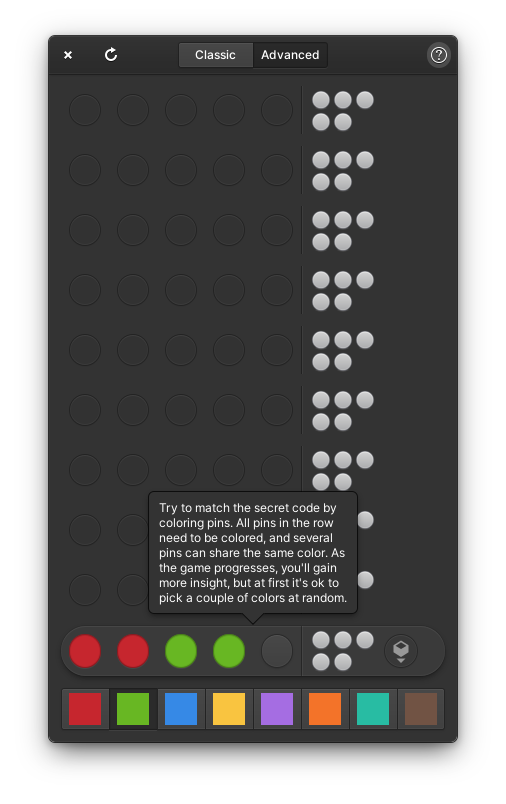
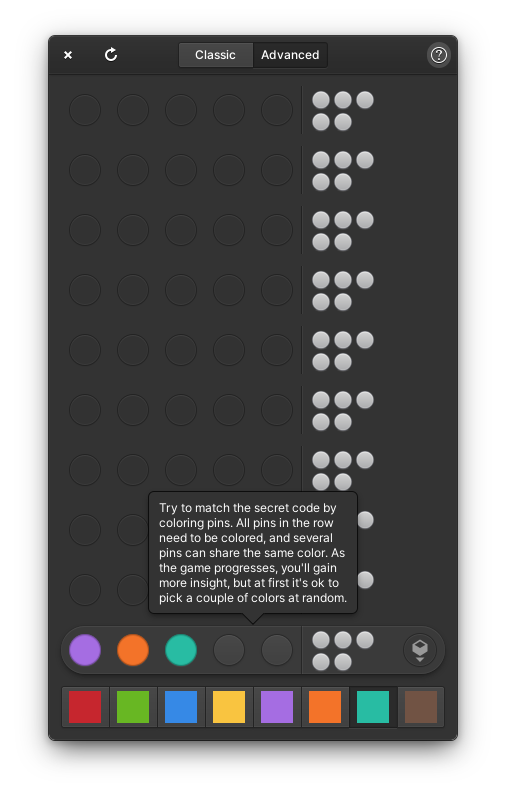
Add 1.0.0 release notes (#8)
Update screenshots and add release tag to appdata.xml

diff --git a/README.md b/README.md
@@ -5,7 +5,7 @@ A code breaking game made for [elementary OS](https://elementary.io/).
 
 |![Default style screenshot](data/screenshots/classic.png)|![Dark style screenshot](data/screenshots/advanced.png)          |
 |---------------------------------------------------------|-----------------------------------------------------------------|
-| Classic game in progress, showcasing the default style  | Advanced game with an active help tour showcasing in dark style |
+| Classic game in progress, showcasing the default style  | Advanced game with an active help tour showcasing the dark style |
 
 ## What's up with that name?
 
